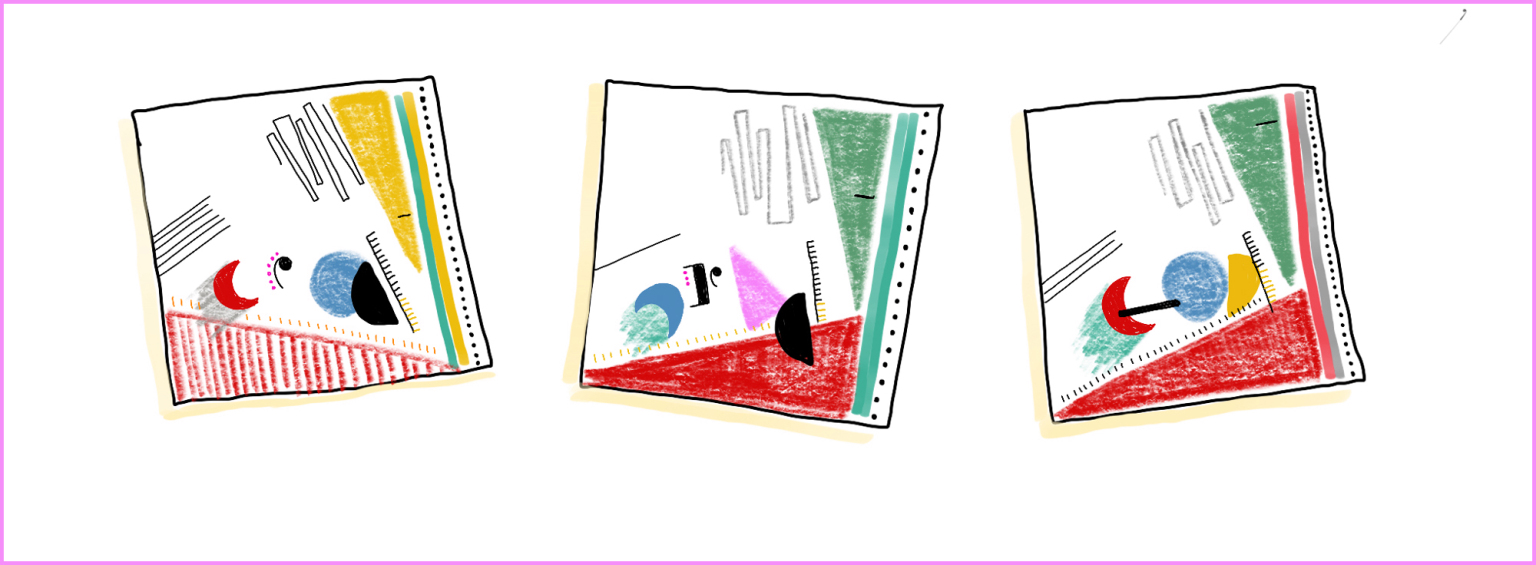
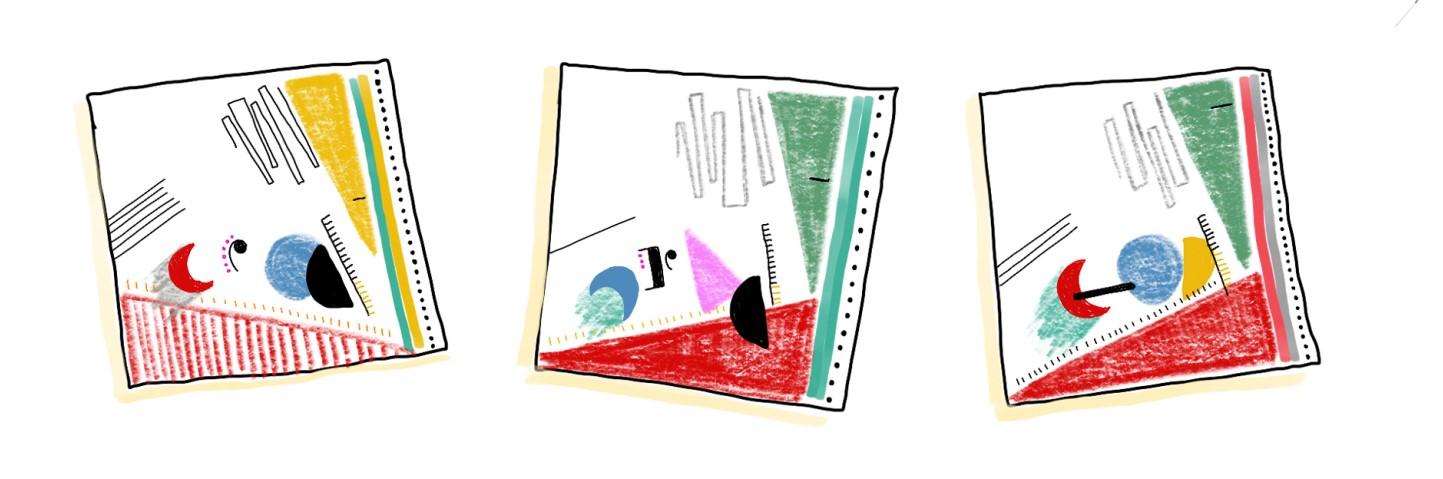
refine homepage UI and update post cover.

diff --git a/docs/.vuepress/theme/layouts/HomeLayout.vue b/docs/.vuepress/theme/layouts/HomeLayout.vue
@@ -245,6 +245,7 @@ header {
 .first-card {
   .card-cover {
     min-height: 15rem;
+    height: 100%;
   }
 }
 </style>

diff --git a/docs/vis/draw-your-own-data-portrait.md b/docs/vis/draw-your-own-data-portrait.md
@@ -1,6 +1,6 @@
 ---
 show: true
-cover: data-vis.jpg
+cover: data-portrait.jpg
 summary: 现在很多软件和网站都会记录用户的使用行为，分析这些数据可以对用户进行更精准的定位，便于进行更精准的广告投放或个性化信息推送，这样的过程称为绘制用户画像，不过这里说的画像不是一副真实可见的「肖像画」，更多的是基于数据对用户进行定性分类和语言描述。或许我们可以借鉴这样的方法，从自我量化的角度，在日常记录自己相关的数据，绘制自己的数字画像。
 tags:
   - data-vis
